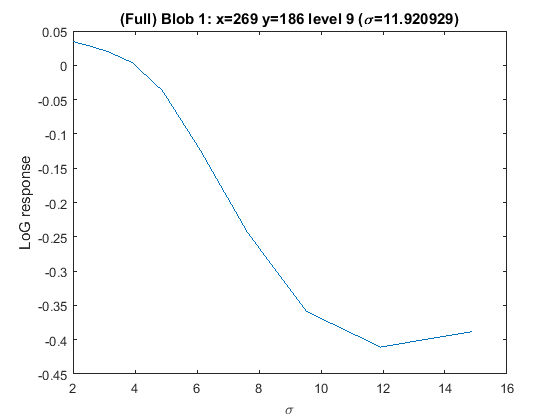
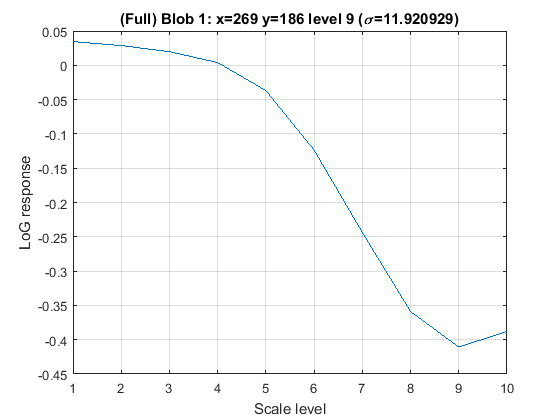
Code cleanup; more figures for report

diff --git a/Task1/findblobs.m b/Task1/findblobs.m
@@ -1,12 +1,12 @@
 clear all
 close all
 
-DOHALFSIZE=true;
+DOHALFSIZE=true;        % process half sized image in addition?
 DEBUG=false;
-DRAW_SEPARATE=false;
+DRAW_SEPARATE=false;    % draw circles for each scale in separate image?
 FILENAME='res/butterfly.jpg';
 %FILENAME='res/dalmatian.png';
-% FILENAME='res/mytest.png';
+%FILENAME='res/mytest.png';
 
 % parameters
 sigma0 = 2;    % initial sigma
@@ -26,155 +26,178 @@ if ndims(I) > 2
 end
 
 for halfsizeloop = 1:2
+    % pass = 1: do full size image
+    % pass = 2: do half size image
 
-% resize to half
-if halfsizeloop == 2
-    if DOHALFSIZE
-        I = imresize(I, 0.5);
-    else
-        break;
-    end
-end
-
-
-% --- Create scale space matrix ------------------------------------------
-[height,width] = size(I);
-scale_space = zeros(height,width,levels);
-
-sigma = sigma0;
-for i = 1:levels
-    % create a LoG filter of appropriate size and scale it by sigma^2
-    hsize = 2 * floor(3 * sigma) + 1;
-    log = sigma*sigma*fspecial('log', hsize, sigma);
-
-    % convolve with the image and store values in the scalespace
-    scale_space(:,:,i) = imfilter(I, log, 'replicate', 'same');
-
-    % increase sigma
-    sigma = sigma * k;
-end
-orig_scale_space = scale_space; % keep the original response for later
-
-% work with the absolute response values
-scale_space = abs(scale_space);
-
-if DEBUG, debug_montage('Scale space', scale_space), end;
-
-
-% --- Non-maximum-suppression -------------------------------------------
-
-% for each level: set maxima to the value of the maximal neighbour
-%                 inside this level
-levelmax = zeros(height,width,levels);
-for i = 1:levels
-% wayyyyy too slow...
-%   maxfunc=@(x) max(x(:));
-%   max_space(:,:,i) = nlfilter(scale_space(:,:,i), [3 3], maxfunc);
-
-% much faster:
-    levelmax(:,:,i) = colfilt(scale_space(:,:,i), [3 3], 'sliding', @max);
-end
-if DEBUG, debug_montage('Maxima per level', levelmax), end;
-
-% calculate maxima between level-neighbourhoods.
-% - we already have set the maxima IN each level
-% - now perform a max operation along the 3rd dimension between neighbouring levels
-% ATTN: we need to use a separate matrix for the results, because we need
-%       the original values to calc other levels
-% TODO: actually we only need to buffer 3 levels... optimize mem usage!
-totalmax = zeros(height,width,levels);
-for i = 1:levels
-    prev = i - 1; % previous level
-    next = i + 1; % next level
-    if (prev < 1);      prev = 1;      end;
-    if (next > levels); next = levels; end;
-    levels_of_interest = levelmax(:,:,prev:next);
-    totalmax(:,:,i) = max(levels_of_interest, [], 3);
-end
-if DEBUG, debug_montage('Combined maxima', totalmax), end;
-
-% TODO: is there some function like colfilt for 3D, so we can calc the
-% total maxima in one go?
-
-% now we have the 3D-neighbourhood-maxima in totalmax
-% delete all pixels from scale space that do not equal these maxima
-% also delete pixels that are lower than threshold
-scale_space(scale_space ~= totalmax) = 0;
-scale_space(scale_space < thresh) = 0;
-if DEBUG, debug_montage('Final maxima', scale_space), end;
-
-
-cx = []; cy = []; rad = []; lev = [];
-for i = 1:levels
-    sigma = sigma0 * k^(i-1);
-    radius = sqrt(2) * sigma;
-    [cy_,cx_] = find(scale_space(:,:,i));
-    rad_ = zeros(size(cx_));
-    rad_(:) = radius;
-    lev_ = zeros(size(cx_));
-    lev_(:) = i;
-    if DRAW_SEPARATE
-        if size(cx_) > 0
-            figure('Name',sprintf('Level %d',i));
-            show_all_circles(I,cx_,cy_,rad_);
-        end
-    else
-        cx  = [cx;cx_];
-        cy  = [cy;cy_];
-        rad = [rad;rad_];
-        lev = [lev;lev_];
-    end
-end
-if ~DRAW_SEPARATE
-    figure
-    show_all_circles(I,cx,cy,rad);
-    
-    
-    disp('Select blobs to analyze, double-click or press Enter to finish.');
-    [xs,ys] = getpts;
-
-    ixs = zeros(size(xs,1),1);
-    for i=1:size(xs)
-        % find the closest blob centers to the clicked coordinates
-        d = (cx - xs(i)).^2 + (cy - ys(i)).^2;
-        [~,ix] = min(d);
-        ixs(i) = ix;
-
-
-    end
-    
-    for i=1:size(ixs)
-        ix = ixs(i);
-        if halfsizeloop==1
-            shalf = '(Full)';
+    % resize to half
+    if halfsizeloop == 2
+        if DOHALFSIZE
+            I = imresize(I, 0.5);
         else
-            shalf = '(Half)';
+            break;
         end
-        
-        % show separate image with selected blobs marked only
-        figure; show_all_circles(I,[cx(ix)],[cy(ix)],[rad(ix)]);
-        
-        info = sprintf('%s Blob %d: x=%d y=%d level %d (\\sigma=%f)', ...
-                shalf, i, cx(ix), cy(ix), lev(ix), sigma0 * k^(lev(ix)-1));
-        plot_log_response(info, cx(ix), cy(ix), orig_scale_space, sigma0, k);
     end
-end
+
+
+    % --- Create scale space matrix ------------------------------------------
+    [height,width] = size(I);
+    scale_space = zeros(height,width,levels);
+
+    sigma = sigma0;
+    for i = 1:levels
+        % create a LoG filter of appropriate size and scale it by sigma^2
+        hsize = 2 * floor(3 * sigma) + 1;
+        log = sigma*sigma*fspecial('log', hsize, sigma);
+
+        % convolve with the image and store values in the scalespace
+        scale_space(:,:,i) = imfilter(I, log, 'replicate', 'same');
+
+        % increase sigma
+        sigma = sigma * k;
+    end
+    orig_scale_space = scale_space; % keep the original response for later
+
+    % work with the absolute response values
+    scale_space = abs(scale_space);
+
+    if DEBUG, debug_montage('Scale space', scale_space), end;
+
+
+    % --- Non-maximum-suppression -------------------------------------------
+
+    % for each level: set maxima to the value of the maximal neighbour
+    %                 inside this level
+    levelmax = zeros(height,width,levels);
+    for i = 1:levels
+        % wayyyyy too slow...
+        % maxfunc=@(x) max(x(:));
+        % max_space(:,:,i) = nlfilter(scale_space(:,:,i), [3 3], maxfunc);
+
+        % much faster:
+        levelmax(:,:,i) = colfilt(scale_space(:,:,i), [3 3], 'sliding', @max);
+    end
+    if DEBUG, debug_montage('Maxima per level', levelmax), end;
+
+    % calculate maxima between level-neighbourhoods.
+    % - we already have set the maxima IN each level
+    % - now perform a max operation along the 3rd dimension between neighbouring levels
+    % ATTN: we need to use a separate matrix for the results, because we still need
+    %       the original values to calc other levels
+    %       (actually we only need to buffer 3 levels - could optimize mem)
+    totalmax = zeros(height,width,levels);
+    for i = 1:levels
+        prev = i - 1; % previous level
+        next = i + 1; % next level
+        if (prev < 1);      prev = 1;      end;
+        if (next > levels); next = levels; end;
+        levels_of_interest = levelmax(:,:,prev:next);
+        totalmax(:,:,i) = max(levels_of_interest, [], 3);
+    end
+    if DEBUG, debug_montage('Combined maxima', totalmax), end;
+
+    % TODO: is there some function like colfilt for 3D, so we can calc the
+    % total maxima in one go?
+
+    % now we have the 3D-neighbourhood-maxima in totalmax
+    % delete all pixels from scale space that do not equal these maxima
+    % also delete pixels that are lower than threshold
+    scale_space(scale_space ~= totalmax) = 0;
+    scale_space(scale_space < thresh) = 0;
+    if DEBUG, debug_montage('Final maxima', scale_space), end;
+
+    % draw a circle for each detected blob, with radius proportional to
+    % sigma => circle should cover the actual blob
+    cx = []; cy = []; rad = []; lev = [];
+    for i = 1:levels
+        sigma = sigma0 * k^(i-1);
+        radius = sqrt(2) * sigma;
+        [cy_,cx_] = find(scale_space(:,:,i));
+        rad_ = zeros(size(cx_));
+        rad_(:) = radius;
+        lev_ = zeros(size(cx_));
+        lev_(:) = i;
+        if DRAW_SEPARATE
+            if size(cx_) > 0
+                figure('Name',sprintf('Level %d',i));
+                show_all_circles(I,cx_,cy_,rad_);
+            end
+        else
+            cx  = [cx;cx_];
+            cy  = [cy;cy_];
+            rad = [rad;rad_];
+            lev = [lev;lev_];
+        end
+    end
+    if ~DRAW_SEPARATE
+        figure
+        show_all_circles(I,cx,cy,rad);
+
+
+        % let the user pick keypoints to analyze further
+        disp('Select blobs to analyze, double-click or press Enter to finish.');
+        [xs,ys] = getpts;
+
+        % find the closest blob centers to the clicked coordinates
+        ixs = zeros(size(xs,1),1);
+        for i=1:size(xs)
+            d = (cx - xs(i)).^2 + (cy - ys(i)).^2;
+            [~,ix] = min(d);
+            ixs(i) = ix;
+        end
+
+        for i=1:size(ixs)
+            ix = ixs(i);
+            if halfsizeloop==1;
+                shalf = '(Full)';
+            else
+                shalf = '(Half)';
+            end
+
+            % show a separate image with selected blobs marked only
+            % figure; show_all_circles(I,[cx(ix)],[cy(ix)],[rad(ix)]);
+
+            % plot LoG response for selected keypoint
+            info = sprintf('%s Blob %d: x=%d y=%d level %d (\\sigma=%f)', ...
+                    shalf, i, cx(ix), cy(ix), lev(ix), sigma0 * k^(lev(ix)-1));
+            plot_log_response(info, cx(ix), cy(ix), orig_scale_space, sigma0, k);
+        end
+    end
 
 end % halfsizeloop
 
 % plot the LoG response for given coordinates
+% function plot_log_response(info,x,y,scalespc,sigma0,k)
+%     disp(info);
+% 
+%     levels = size(scalespc,3);
+%     vals = reshape(scalespc(y,x,:), [levels 1])
+%     sigs = (sigma0 * k.^((1:levels)-1))'
+%     
+%     figure('Name', 'LoG response');
+%     plot(sigs,vals);
+%     title(info);
+%     xlabel('\sigma');
+%     ylabel('LoG response');
+% end
+
 function plot_log_response(info,x,y,scalespc,sigma0,k)
     disp(info);
 
     levels = size(scalespc,3);
     vals = reshape(scalespc(y,x,:), [levels 1])
+    lvls = 1:levels; % 0:(levels-1);
     sigs = (sigma0 * k.^((1:levels)-1))'
     
     figure('Name', 'LoG response');
-    plot(sigs,vals);
+    plot(lvls,vals);
+    grid on;
+
+    % second x-axis for sigma - how ?
+    
     title(info);
-    xlabel('\sigma');
+    xlabel('Scale level');
     ylabel('LoG response');
+    
 end
 
 % debug output

diff --git a/report1/vc_report_1.tex b/report1/vc_report_1.tex
@@ -248,6 +248,18 @@ Todo ...
 	\includegraphics[width=0.5\textwidth]{figures/a3_butterfly_k020.png}
 	\includegraphics[width=0.5\textwidth]{figures/a3_butterfly_k025.png}
 	\caption{Illustration of the effect of different thresholds $k$. Top left: $k=0.15$. Top right: $k=0.18$. Bottom left: $k=0.20$. Bottom right: $k=0.25$.}
+	\label{fig:a3:thresholds}
+\end{figure}
+
+\begin{figure}[h]
+	\includegraphics[width=0.5\textwidth]{figures/a3_butterfly_keypoint.png}
+	\includegraphics[width=0.5\textwidth]{figures/a3_butterfly_keypoint_2.png}
+	\includegraphics[width=0.5\textwidth]{figures/a3_butterfly_log_full.png}
+	\includegraphics[width=0.5\textwidth]{figures/a3_butterfly_log_full_2.png}
+	\includegraphics[width=0.5\textwidth]{figures/a3_butterfly_log_half.png}
+	\includegraphics[width=0.5\textwidth]{figures/a3_butterfly_log_half_2.png}
+	\caption{LoG response for two selected keypoints. The top row shows the chosen keypoint, the second and third rows show the LoG response for the full-sized and half-sized image. Left: A white-on-black blob (negative LoG response), right: a black-on-white blob (positive LoG response).}
+	\label{fig:a3:logresponse}
 \end{figure}
 
 
